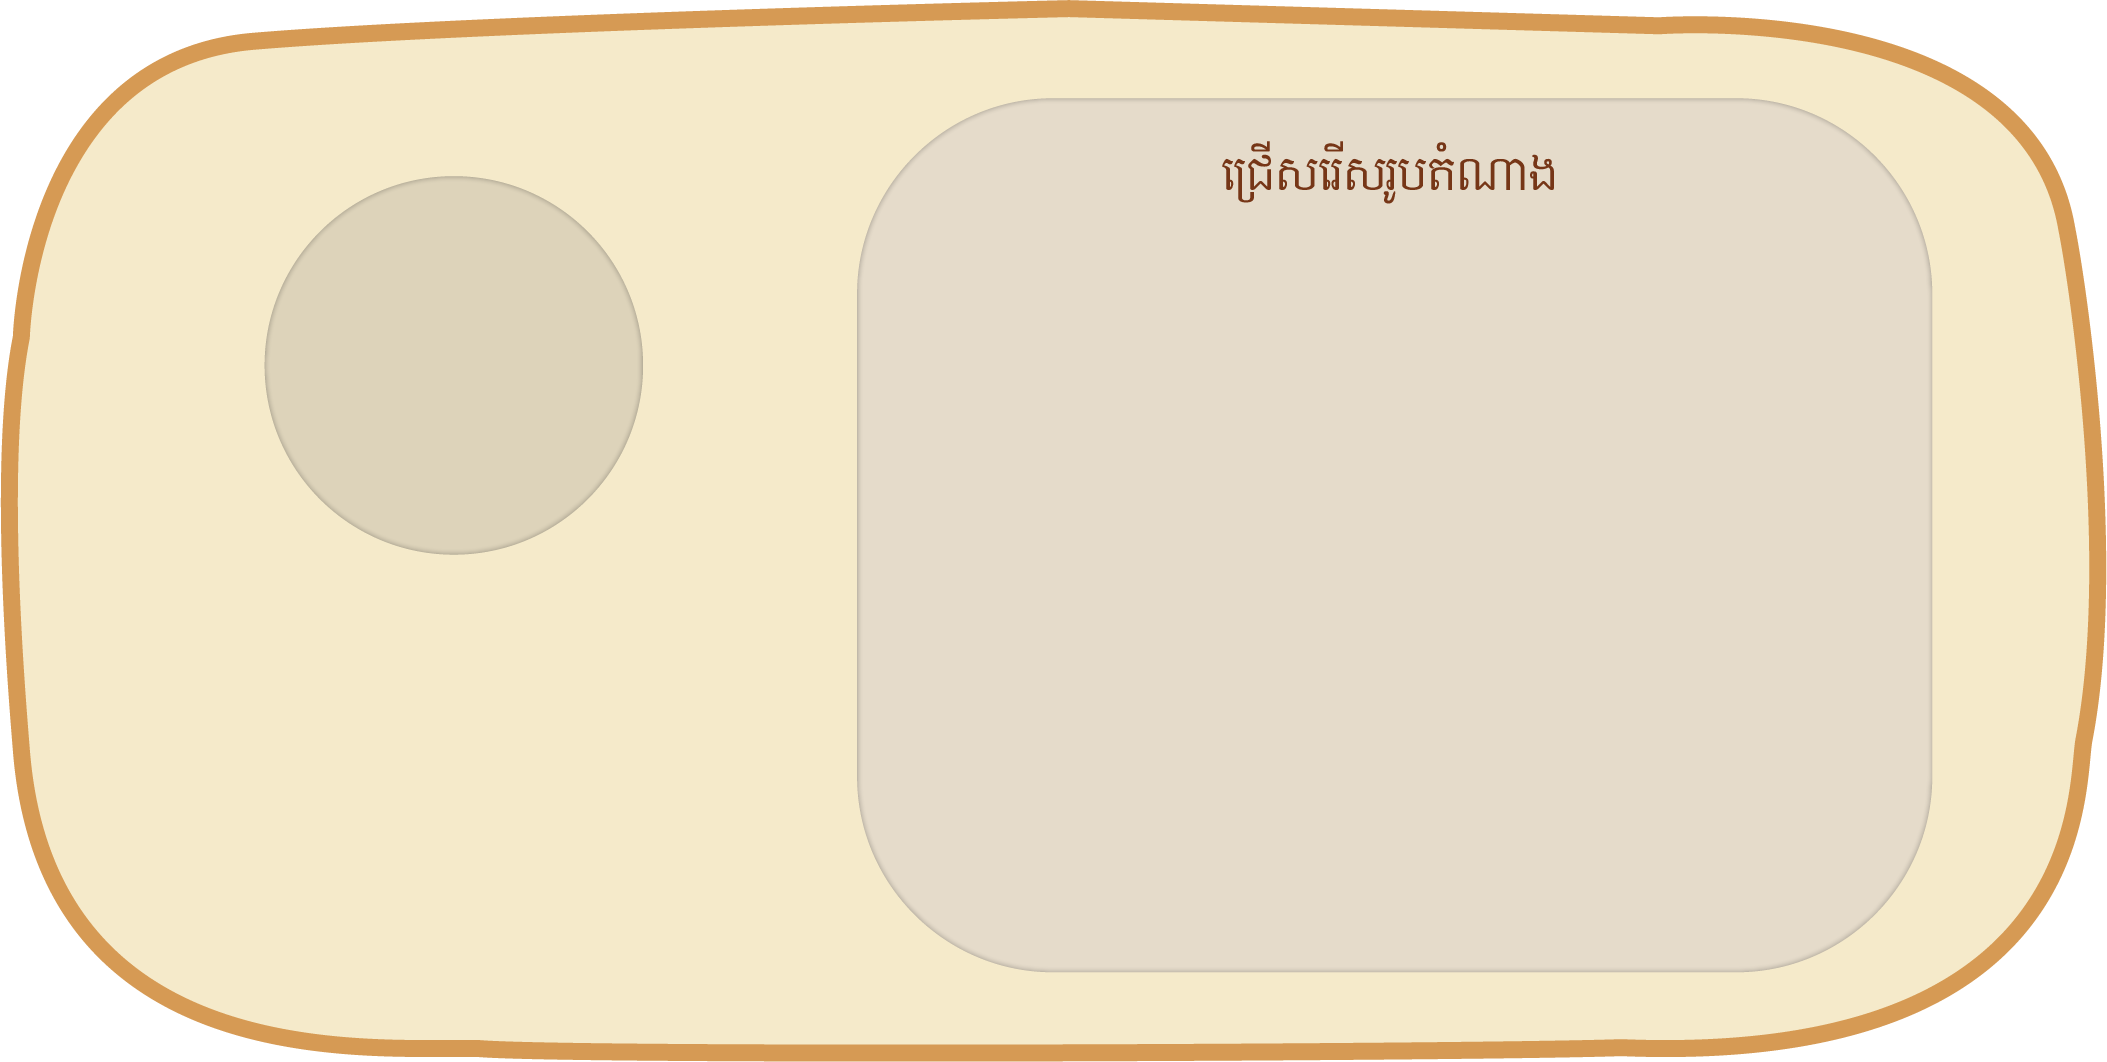
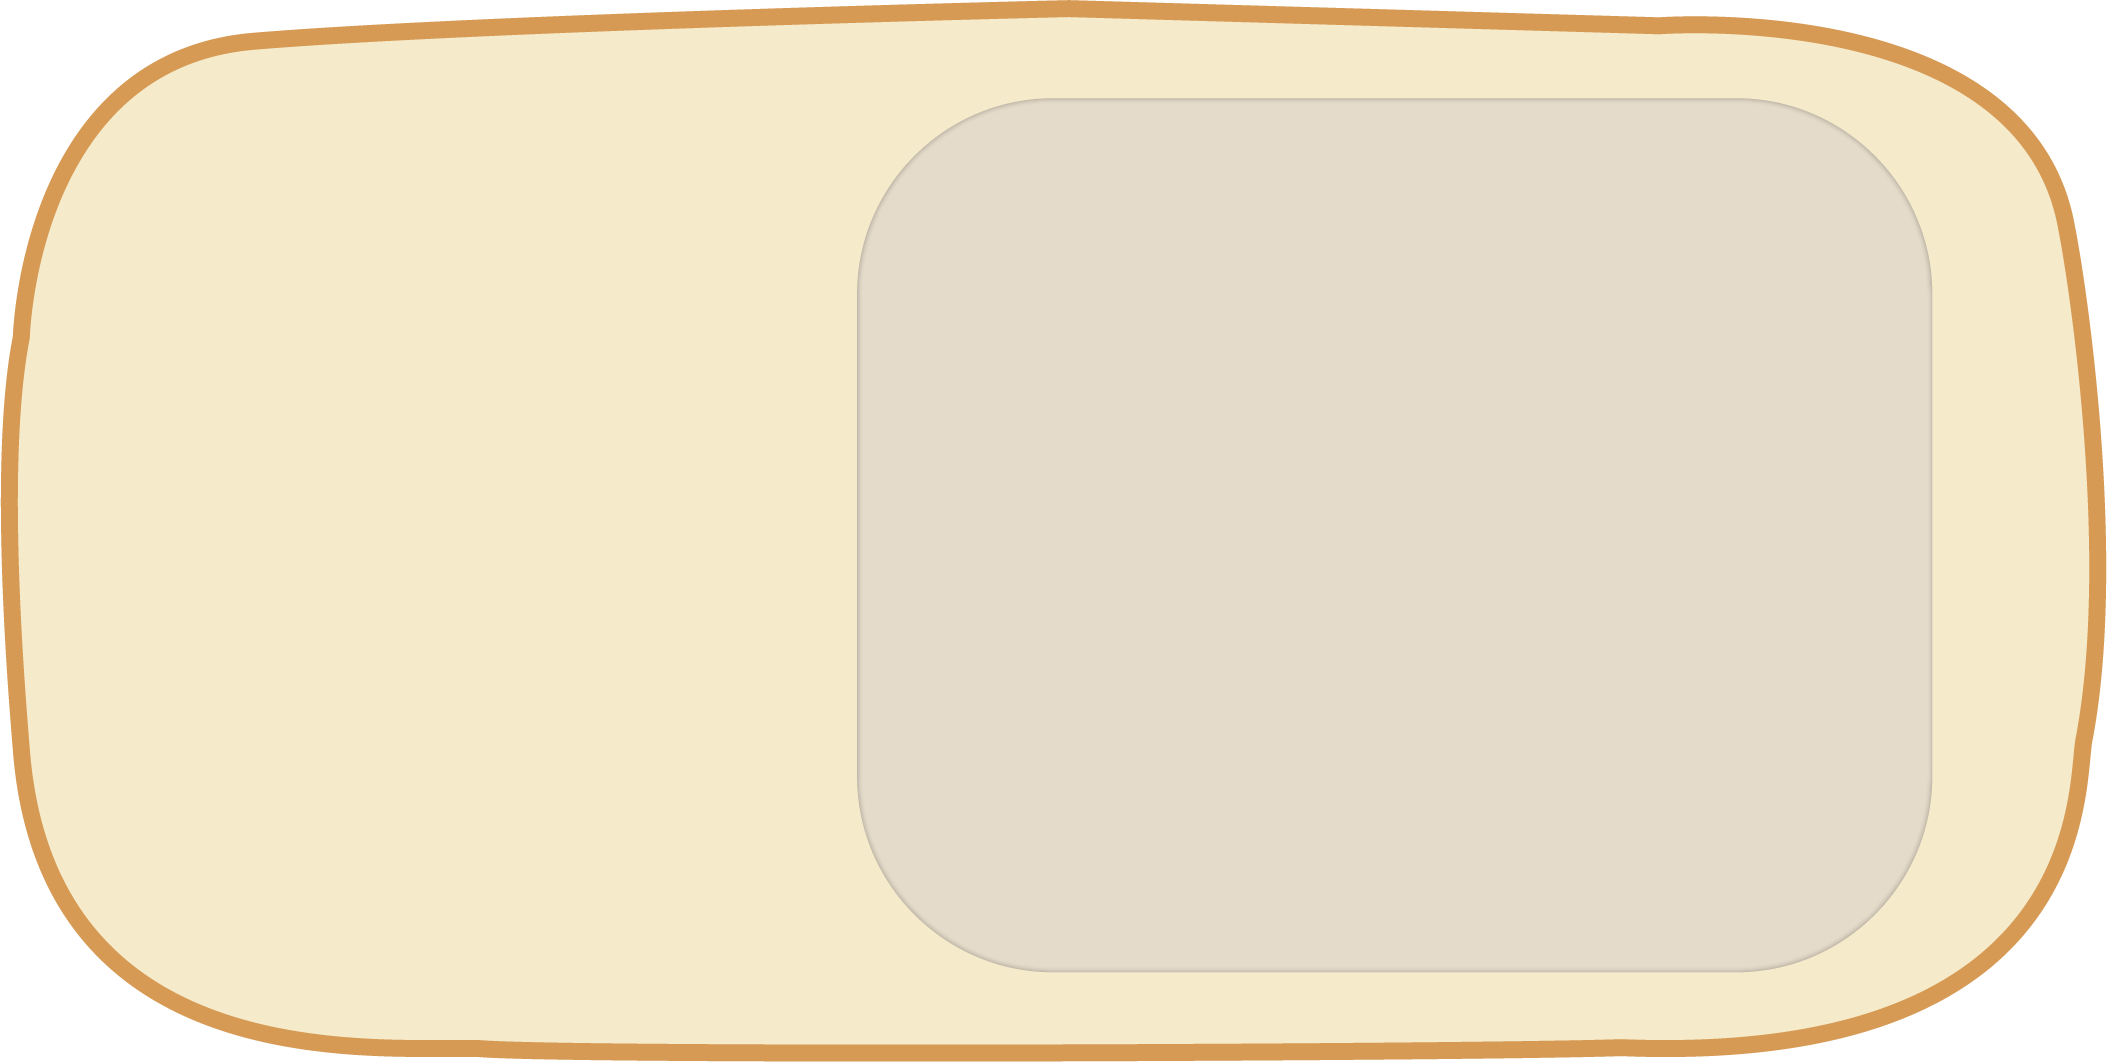
keyboard overlay input field fixed

diff --git a/www/css/account.min.css b/www/css/account.min.css
@@ -1,1 +1,1 @@
-@font-face{font-family:'Daun Teav';src:url(../fonts/DaunTeav.ttf);src:url(../fonts/DaunTeav.ttf) format("truetype"),url(../fonts/DaunTeav.woff) format("woff"),url(../fonts/DaunTeav.woff2) format("woff2"),url(../fonts/DaunTeav.eot?#iefix) format("embedded-opentype"),url(../fonts/DaunTeav.svg#AngDaunTeav) format("svg");font-weight:400;font-style:normal}ion-view{font-family:"Daun Teav"!important}.app-background{background:url(../img/app-background.png) center center no-repeat fixed;background-size:cover}.activated{opacity:.3}.popup{width:60%!important;font-size:20px;text-align:center}.account-panel{display:block;background:url(../img/account/account.png) center center no-repeat;background-size:92% 92%;height:90%;margin-top:3.5%;width:100%}.split-left{display:inline-block;position:relative;float:left;width:40%;height:100%}.split-right{display:inline-block;position:relative;width:50%;height:60%}.avatar-selection{display:inline-block;width:37%;height:59%;position:fixed;margin-top:3%;margin-left:7%}.avatar-selection button:last-child{position:relative;background:url(../img/account/save.png) center center no-repeat;background-size:contain;width:67%;height:16%;margin-left:17%;margin-top:1%;border:none}.avatar-selection .selected{opacity:1}.avatar-item{display:inline-block;position:relative;background:center center no-repeat;width:29%;height:35%;background-size:contain;margin-right:2%;margin-left:1.5%;cursor:pointer;opacity:.3}.account-name{background:url(../img/account/name.png) center center no-repeat;background-size:contain;width:79.5%;margin-left:19.5%!important;margin-top:3.8%!important;height:11%}input[type=text]#name::-webkit-input-placeholder{color:#763617;font-size:22px}.select-grade{background:url(../img/account/grade.png) center center no-repeat;background-size:contain;margin-top:4%;margin-left:22%;width:43.5%;height:11%;float:left}.select-grade .input-label{font-size:20px;color:#763617;margin-left:25%}.select-type{background:url(../img/account/grade-type.png) center center no-repeat;background-size:contain;margin-top:4%;width:34%;height:11%}.select-type select{margin-left:20%;background-color:#fff}.item-select:after{content:none!important}.select-type select option:checked{color:red}
+@font-face{font-family:'Daun Teav';src:url(../fonts/DaunTeav.ttf);src:url(../fonts/DaunTeav.ttf) format("truetype"),url(../fonts/DaunTeav.woff) format("woff"),url(../fonts/DaunTeav.woff2) format("woff2"),url(../fonts/DaunTeav.eot?#iefix) format("embedded-opentype"),url(../fonts/DaunTeav.svg#AngDaunTeav) format("svg");font-weight:400;font-style:normal}ion-view{font-family:"Daun Teav"!important}.app-background{background:url(../img/app-background.png) center center no-repeat fixed;background-size:cover}.activated{opacity:.3}.popup{width:60%!important;font-size:20px;text-align:center}.account-panel{display:block;background:url(../img/account/account.png) center center no-repeat;background-size:92% 92%;height:90%;margin-top:3.5%;width:100%}.split-left{display:inline-block;position:relative;float:left;width:40%;height:100%}.split-right{display:inline-block;position:relative;width:50%;height:60%}.avatar-selection{display:inline-block;width:37%;height:59%;position:fixed;margin-left:7%}.avatar-selection button:last-child{position:relative;background:url(../img/account/save.png) center center no-repeat;background-size:contain;width:67%;height:16%;margin-left:17%;margin-top:1%;border:none}.avatar-selection .selected{opacity:1}.avatar-item{display:inline-block;position:relative;background:center center no-repeat;width:29%;height:35%;background-size:contain;margin-right:2%;margin-left:1.5%;cursor:pointer;opacity:.3}.account-name{background:url(../img/account/name.png) center center no-repeat;background-size:contain;width:79.5%;margin-left:19.5%!important;margin-top:3.8%!important;height:11%}input[type=text]#name::-webkit-input-placeholder{color:#763617;font-size:22px}.select-grade{background:url(../img/account/grade.png) center center no-repeat;background-size:contain;margin-top:4%;margin-left:22%;width:43.5%;height:11%;float:left}.select-grade .input-label{font-size:20px;color:#763617;margin-left:25%}.select-type{background:url(../img/account/grade-type.png) center center no-repeat;background-size:contain;margin-top:4%;width:34%;height:11%}.select-type select{margin-left:20%;background-color:#fff}.item-select:after{content:none!important}.select-type select option:checked{color:red}

diff --git a/www/templates/account.html b/www/templates/account.html
@@ -6,9 +6,12 @@
 
       <form name="formAccount" ng-submit="!form.$invalid && save(user)" style='height: 90%;'>
         <div class='split-left'>
-          <img ng-src='img/avatar/{{selectedAvatar.name}}' style='width: 41%; margin-top: 25%; margin-left: 39%;'>
-          <label class="item-input account-name" >
-            <input type="text" name='username' placeholder="បំពេញឈ្មោះនៅទីនេះ" id='name' ng-model="user.name" required>
+          <div style='margin-top: 25%; margin-left: 39%;'><img ng-src='img/avatar/{{selectedAvatar.name}}' style='width: 67%;' class="hide-on-keyboard-open"></div>
+          <label class="item-input account-name">
+            <input type="text"
+                  name='username'
+                  placeholder="បំពេញឈ្មោះនៅទីនេះ" id='name'
+                  ng-model="user.name" required>
           </label>
 
           <label class="item-input item-select select-grade">
@@ -33,6 +36,7 @@
         </div>
 
         <div class='split-right'>
+          <p style='color: #763617; text-align: center; font-size: 20px;'>ជ្រេីសរេីសរូបតំណាង</p>
           <div class="avatar-selection">
             <div class="avatar-item" ng-repeat='avatar in avatars'
                   ng-click='select(avatar)'

diff --git a/www/js/app.run.js b/www/js/app.run.js
@@ -20,7 +20,6 @@ function runBlock ($ionicPlatform, $cordovaSQLite, $cordovaFile, $rootScope, $lo
       StatusBar.styleDefault();
     }
 
-
     // db = window.openDatabase("khmer-writing.db", '1.0', 'larvae report system database', 1024 * 1024 * 100); // browser
     // createTables($cordovaSQLite);
 
@@ -34,5 +33,10 @@ function runBlock ($ionicPlatform, $cordovaSQLite, $cordovaFile, $rootScope, $lo
       $ionicHistory.goBack();
     }
   }, 100);
+
+  if (window.StatusBar) {
+    StatusBar.hide();
+    ionic.Platform.fullScreen();
+  }
 
 }

diff --git a/www/js/users/accounts-controllers.js b/www/js/users/accounts-controllers.js
@@ -76,5 +76,10 @@ angular.module('app')
     vm.user = {"grade" : "១", "type" : "ក"};
   }
 
+  if (ionic.Platform.isAndroid()) {
+    window.addEventListener('native.keyboardshow', function(){
+      document.body.classList.add('keyboard-open');
+    });
+  }
 
 })

diff --git a/www/css/account.css b/www/css/account.css
@@ -46,7 +46,6 @@ ion-view {
   width: 37%;
   height: 59%;
   position: fixed;
-  margin-top: 3%;
   margin-left: 7%; }
 
 .avatar-selection button:last-child {

diff --git a/scss/account.scss b/scss/account.scss
@@ -31,7 +31,6 @@ $font-size: 22px;
   width: 37%;
   height: 59%;
   position: fixed;
-  margin-top: 3%;
   margin-left: 7%;
 }
 
